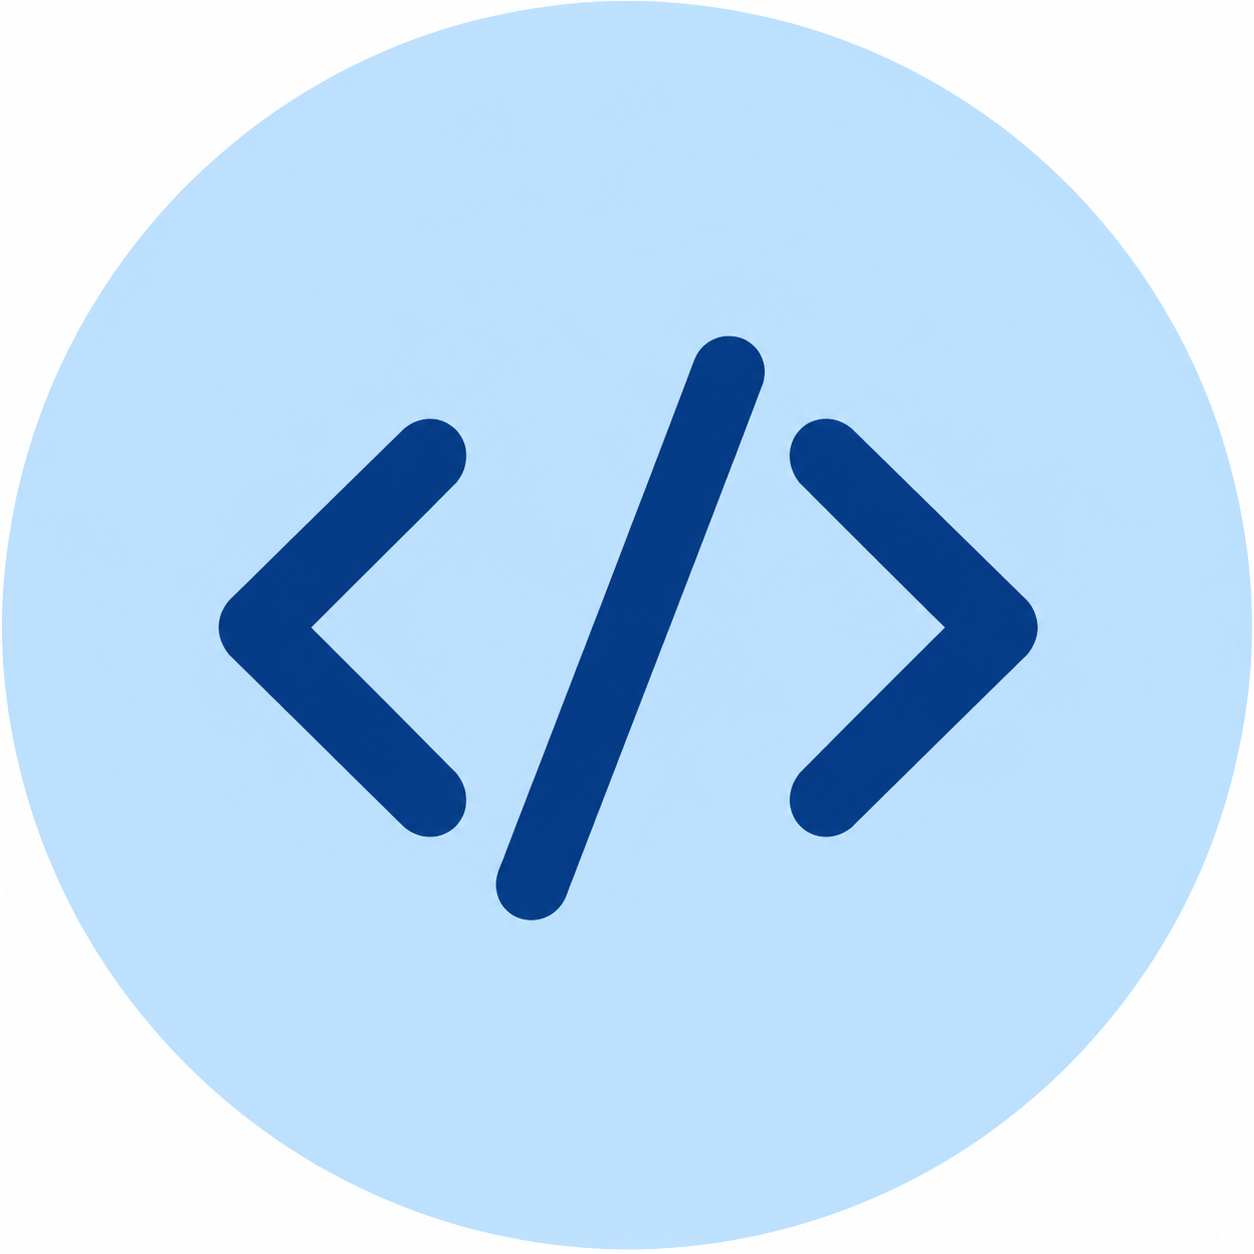
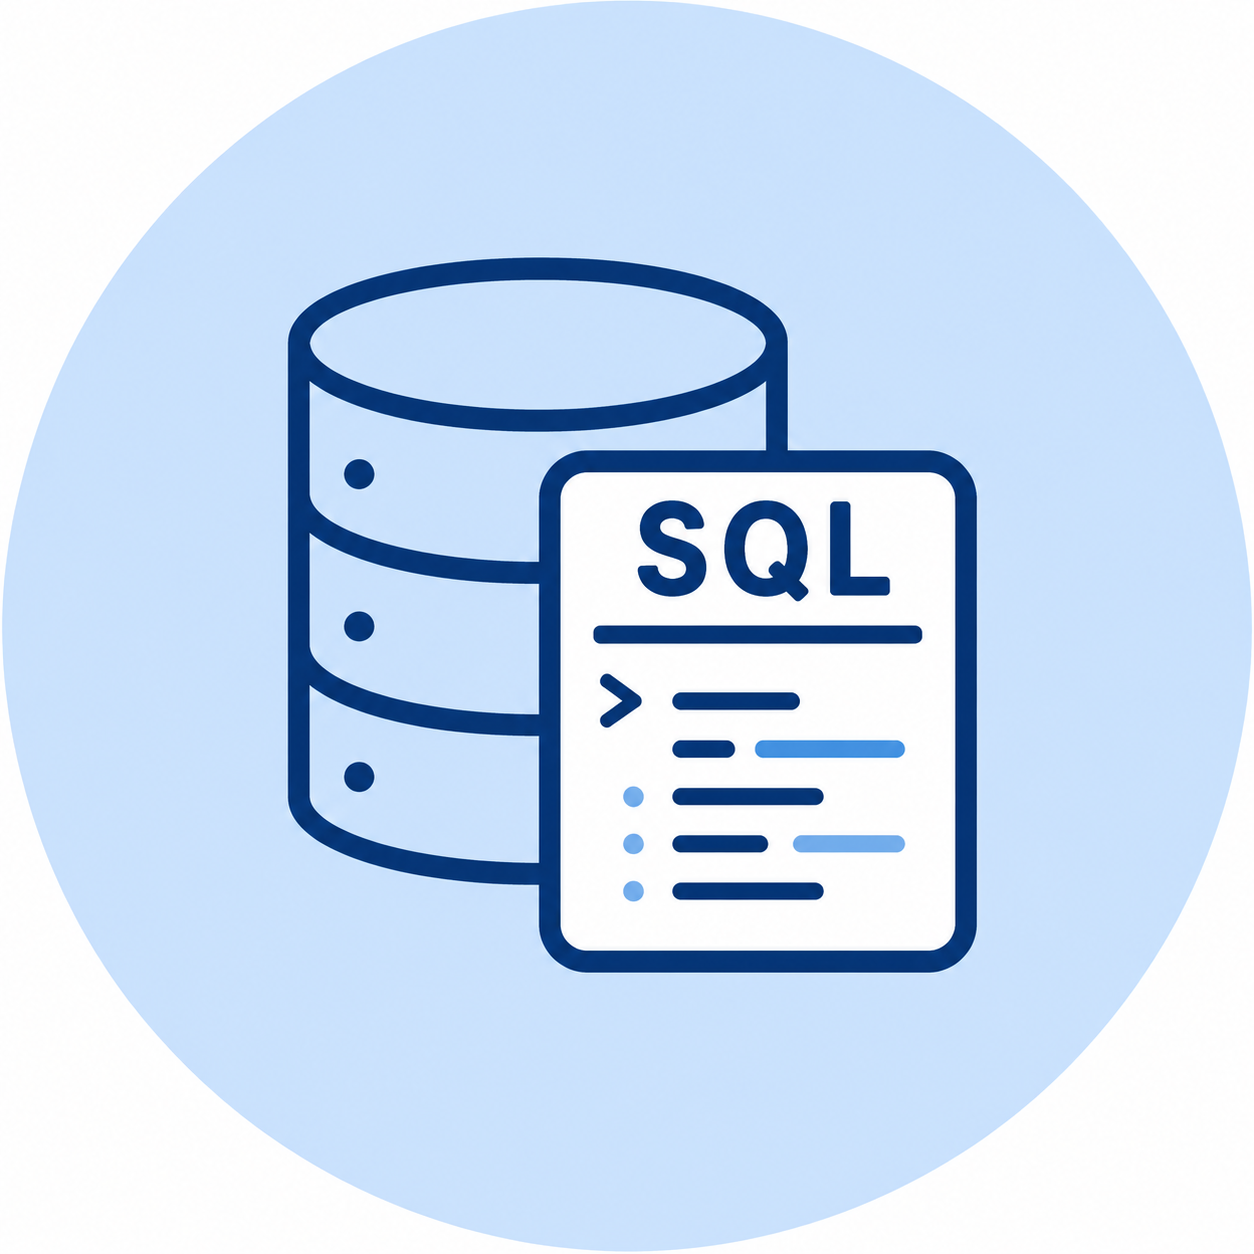
Atualizar manual e recursos SQL

Changed region(s): [[0.1555, 0.1866, 0.8397, 0.7775], [0.4665, 0.9952, 0.5598, 1.0]]

diff --git a/assets/app.js b/assets/app.js
@@ -728,9 +728,14 @@ const groupTasks = [
     sessions: "Sessões 7-10",
     theory: "Terminologia + planeamento/desenho",
     topic: "Palavra do glossário: Chave primária",
-    intro: "Explicar a função da chave primária numa tabela e porque é importante para identificar registos.",
+    intro: "Construir definições para conceitos de identificação, relação e desenho de bases de dados.",
     words: [
-      ["Chave primária", "Identificação única"]
+      ["Chave primária", "Grupo Sala 1"],
+      ["Chave estrangeira", "Grupo Sala 2"],
+      ["Relação", "Grupo Sala 3"],
+      ["Entidade", "Grupo Sala 4"],
+      ["Atributo", "Grupo Sala 5"],
+      ["Modelo relacional", "Grupo Sala 6"]
     ]
   },
   {
@@ -738,9 +743,14 @@ const groupTasks = [
     sessions: "Sessões 11-14",
     theory: "Introdução ao SQL + primeiras consultas",
     topic: "Palavra do glossário: SELECT",
-    intro: "Definir o comando SELECT e indicar para que serve numa consulta SQL.",
+    intro: "Definir comandos e elementos usados nas primeiras consultas SQL.",
     words: [
-      ["SELECT", "Consultar dados"]
+      ["SELECT", "Grupo Sala 1"],
+      ["FROM", "Grupo Sala 2"],
+      ["Consulta", "Grupo Sala 3"],
+      ["Coluna", "Grupo Sala 4"],
+      ["Linha", "Grupo Sala 5"],
+      ["Resultado", "Grupo Sala 6"]
     ]
   },
   {
@@ -748,9 +758,14 @@ const groupTasks = [
     sessions: "Sessões 15-18",
     theory: "Criação de bases de dados + tabelas e integridade",
     topic: "Palavra do glossário: Integridade dos dados",
-    intro: "Clarificar o significado de integridade dos dados e dar um exemplo de regra que ajuda a manter dados corretos.",
+    intro: "Clarificar conceitos ligados à criação de tabelas e à qualidade dos dados guardados.",
     words: [
-      ["Integridade dos dados", "Dados corretos e coerentes"]
+      ["Integridade dos dados", "Grupo Sala 1"],
+      ["Tipo de dados", "Grupo Sala 2"],
+      ["Restrição", "Grupo Sala 3"],
+      ["NOT NULL", "Grupo Sala 4"],
+      ["Valor único", "Grupo Sala 5"],
+      ["CREATE TABLE", "Grupo Sala 6"]
     ]
   },
   {
@@ -758,9 +773,14 @@ const groupTasks = [
     sessions: "Sessões 19-22",
     theory: "Fundamentos de Transact-SQL + filtragem e ordenação",
     topic: "Palavra do glossário: WHERE",
-    intro: "Explicar como a cláusula WHERE permite filtrar resultados numa consulta.",
+    intro: "Explicar conceitos usados para filtrar, ordenar e refinar resultados em SQL.",
     words: [
-      ["WHERE", "Filtrar resultados"]
+      ["WHERE", "Grupo Sala 1"],
+      ["ORDER BY", "Grupo Sala 2"],
+      ["Operador lógico", "Grupo Sala 3"],
+      ["AND", "Grupo Sala 4"],
+      ["OR", "Grupo Sala 5"],
+      ["Critério", "Grupo Sala 6"]
     ]
   }
 ];
@@ -2251,20 +2271,20 @@ const resources = [
   {
     id: "manual",
     title: "Manual para download",
-    intro: "Página preparada para consultar e descarregar o manual da UFCD.",
+    intro: "Consultar e descarregar o manual da UFCD 10788.",
     url: "recursos/manual.html",
     anchor: "index.html#recursos-manual",
-    pdfUrl: ""
+    pdfUrl: "assets/pdfs/Manual_UFCD10788.pdf"
   },
   {
     id: "assistente-gpt",
-    title: "Assistente UFCD 10788",
-    menuTitle: "Assistente GPT",
-    intro: "Apoio orientado para colocar dúvidas, rever conceitos e pedir ajuda durante o estudo da UFCD.",
+    title: "Assistente SQL",
+    menuTitle: "Assistente SQL",
+    intro: "Apoio orientado para colocar dúvidas, rever conceitos de SQL e pedir ajuda durante o estudo da UFCD.",
     url: "recursos/assistente-gpt.html",
     anchor: "index.html#recursos-assistente-gpt",
     menuIcon: "assets/img/assistente-gpt.png",
-    gptUrl: ""
+    gptUrl: "https://chatgpt.com/g/g-6a26ca8b18208191bfbb63eaa11fcfea-assistente-sql"
   }
 ];
 const modalContent = {

diff --git a/index.html b/index.html
@@ -81,7 +81,7 @@
         </button>
         <div class="submenu resource-submenu" id="submenu-recursos">
           <a href="recursos/manual.html">Manual para download</a>
-          <a href="recursos/assistente-gpt.html">Assistente UFCD 10788</a>
+          <a href="recursos/assistente-gpt.html">Assistente SQL</a>
         </div>
       </nav>
     </aside>
@@ -368,11 +368,11 @@
           <div class="resource-list">
             <article class="card" id="recursos-manual">
               <h3><a href="recursos/manual.html">Manual para download</a></h3>
-              <p>Área preparada para disponibilizar o manual da UFCD quando o ficheiro PDF for acrescentado ao projeto.</p>
+              <p>Consultar e descarregar o manual da UFCD 10788 em PDF.</p>
             </article>
             <article class="card" id="recursos-assistente-gpt">
-              <h3><a href="recursos/assistente-gpt.html">Assistente UFCD 10788</a></h3>
-              <p>Apoio orientado para colocar dúvidas, rever conceitos e pedir ajuda durante o estudo da UFCD.</p>
+              <h3><a href="recursos/assistente-gpt.html">Assistente SQL</a></h3>
+              <p>Apoio orientado para colocar dúvidas, rever conceitos de SQL e pedir ajuda durante o estudo da UFCD.</p>
             </article>
           </div>
         </div>

diff --git a/recursos/assistente-gpt.html b/recursos/assistente-gpt.html
@@ -3,7 +3,7 @@
   <head>
     <meta charset="utf-8">
     <meta name="viewport" content="width=device-width, initial-scale=1">
-    <title>UFCD 10788 | Assistente UFCD 10788</title>
+    <title>UFCD 10788 | Assistente SQL</title>
     <link rel="stylesheet" href="../assets/styles.css">
   </head>
   <body data-page="resource" data-depth="sub" data-resource="assistente-gpt">
@@ -70,7 +70,7 @@
         </button>
         <div class="submenu resource-submenu" id="submenu-recursos">
           <a href="../recursos/manual.html">Manual para download</a>
-          <a href="../recursos/assistente-gpt.html">Assistente UFCD 10788</a>
+          <a href="../recursos/assistente-gpt.html">Assistente SQL</a>
         </div>
       </nav>
     </aside>